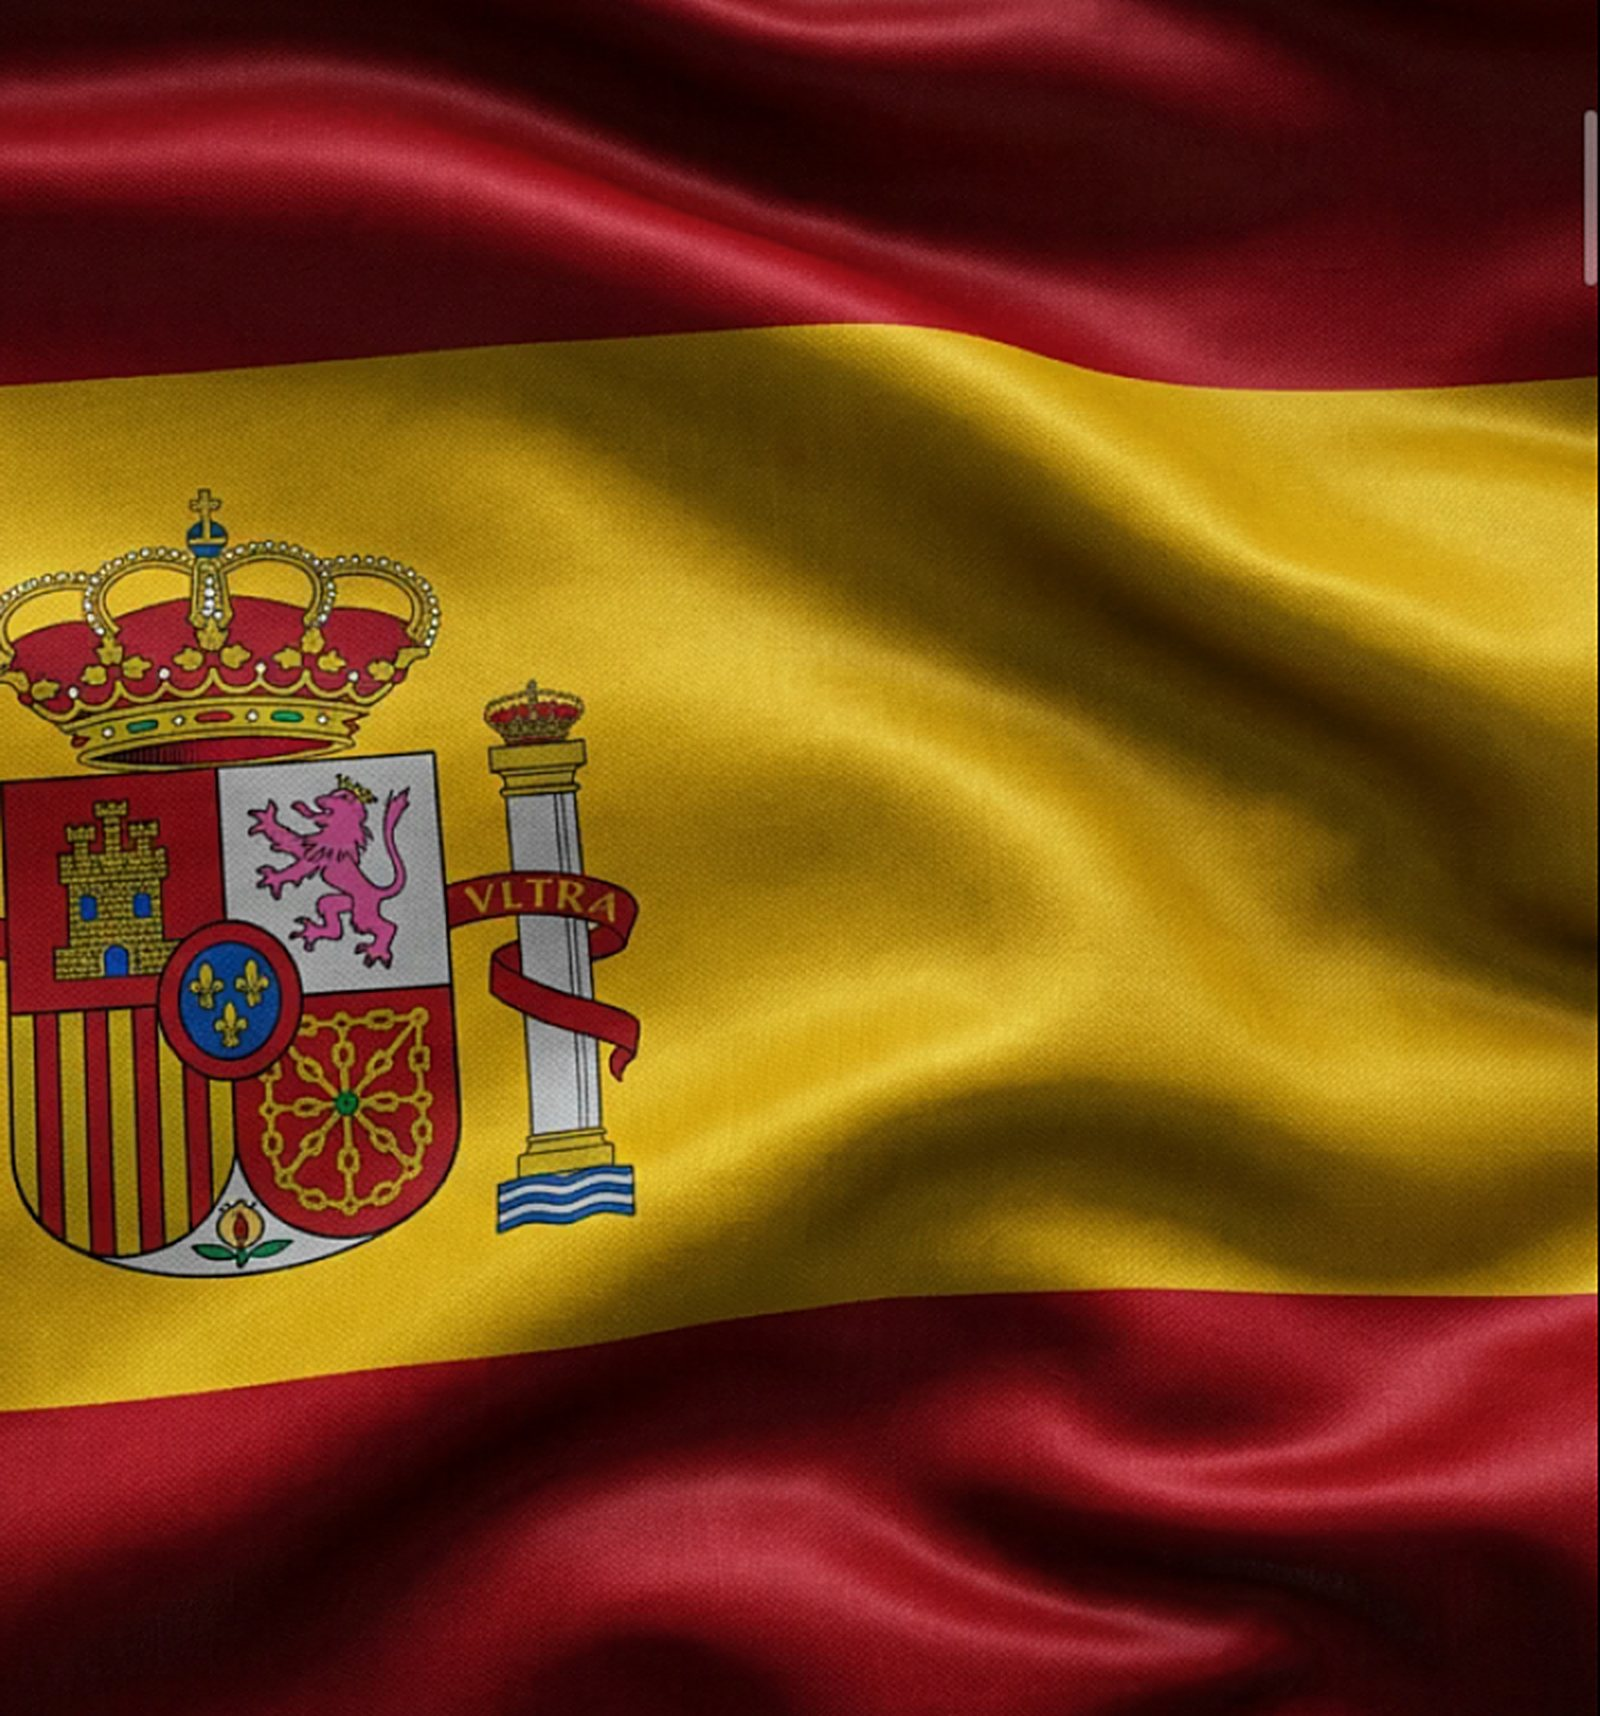
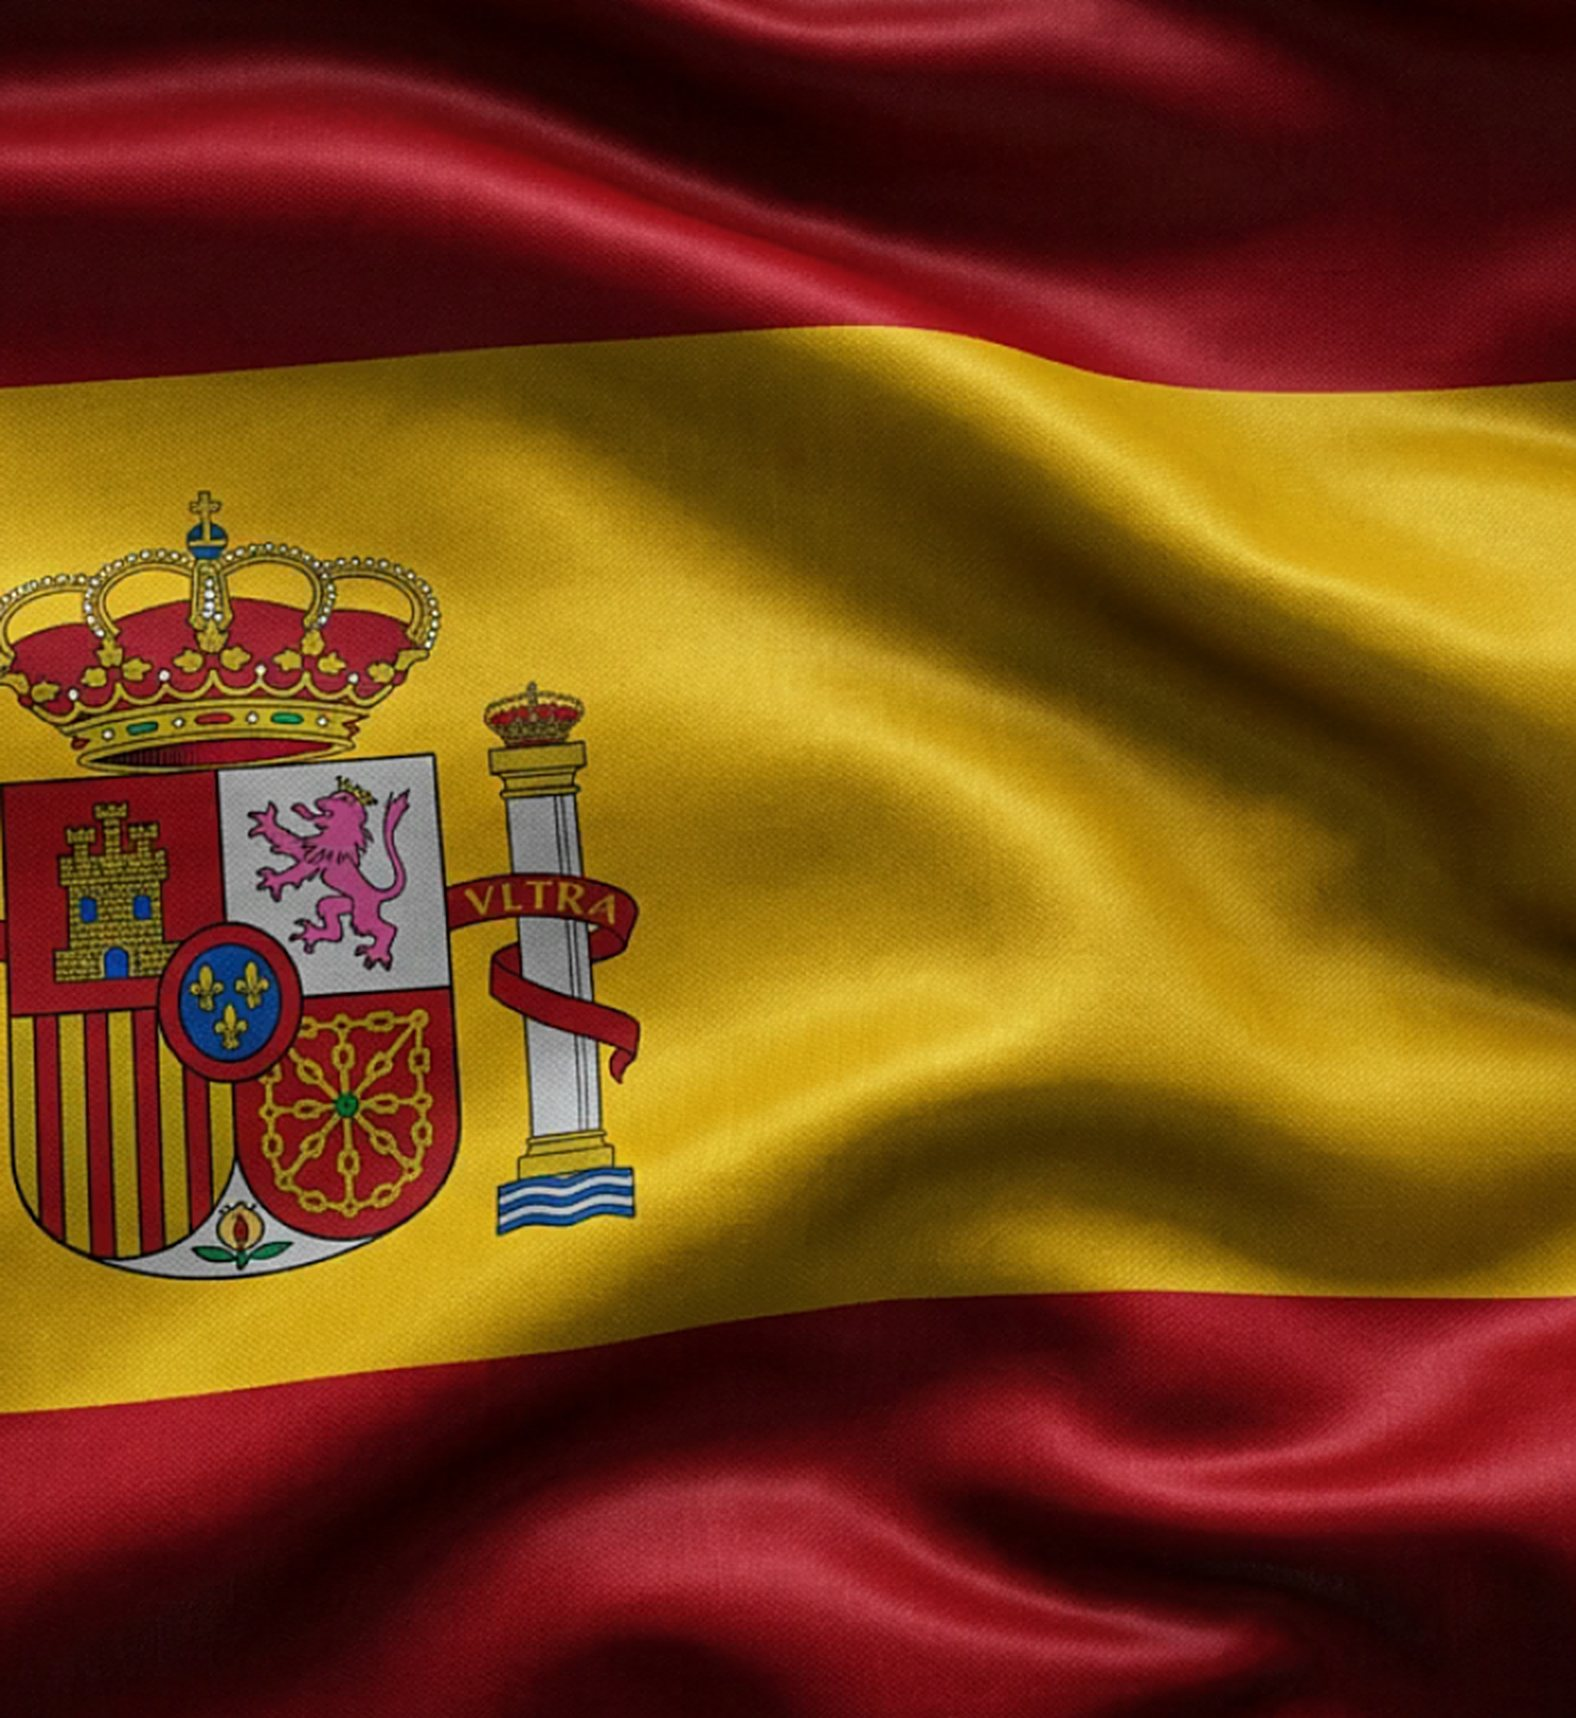
es-test.html: yeni bayrak görseli, sakin dalga, arma için hafif sağa kaydırma
Claude-Session: https://claude.ai/code/session_01DLx9JfBhaGKpRMUJddLxdq

diff --git a/es-test.html b/es-test.html
@@ -650,9 +650,10 @@ body{background:#140a0c}
 .hero{background:#3a070d;isolation:isolate}
 .hero::before{background:none}
 .es-flag{position:absolute;inset:-6%;z-index:-1;pointer-events:none;overflow:hidden}
-.es-flag .img{position:absolute;inset:0;background:url('/assets/brand/es-flag.jpg') left center/cover no-repeat;
+.es-flag .img{position:absolute;top:0;bottom:0;right:0;left:7.5%;background:url('/assets/brand/es-flag.jpg') left center/cover no-repeat;
+  -webkit-mask-image:linear-gradient(90deg,transparent 0,#000 3%);mask-image:linear-gradient(90deg,transparent 0,#000 3%);
   filter:url(#esWave);will-change:filter}
-.es-flag .shade{position:absolute;inset:-20%;mix-blend-mode:soft-light;opacity:.9;
+.es-flag .shade{display:none;position:absolute;inset:-20%;mix-blend-mode:soft-light;opacity:.9;
   background:repeating-linear-gradient(105deg,rgba(255,255,255,.45) 0,rgba(0,0,0,.6) 9%,rgba(255,255,255,.45) 18%);
   background-size:35% 100%;animation:esRipple 3.5s linear infinite}
 .es-flag .dim{position:absolute;inset:0;background:linear-gradient(180deg,rgba(8,4,6,.30),rgba(8,4,6,.55))}
@@ -773,9 +774,9 @@ body{background:#140a0c}
     <div class="es-flag" aria-hidden="true"><div class="img"></div><div class="shade"></div><div class="dim"></div>
       <svg width="0" height="0" style="position:absolute"><filter id="esWave" x="-5%" y="-5%" width="110%" height="110%">
         <feTurbulence type="fractalNoise" baseFrequency="0.003 0.011" numOctaves="1" seed="4" result="n">
-          <animate attributeName="baseFrequency" dur="5s" values="0.003 0.011;0.004 0.015;0.003 0.011" repeatCount="indefinite"/>
+          <animate attributeName="baseFrequency" dur="8s" values="0.003 0.011;0.0036 0.013;0.003 0.011" repeatCount="indefinite"/>
         </feTurbulence>
-        <feDisplacementMap in="SourceGraphic" in2="n" scale="48" xChannelSelector="R" yChannelSelector="G"/>
+        <feDisplacementMap in="SourceGraphic" in2="n" scale="14" xChannelSelector="R" yChannelSelector="G"/>
       </filter></svg>
     </div>
     <div class="hero-orb"></div>
